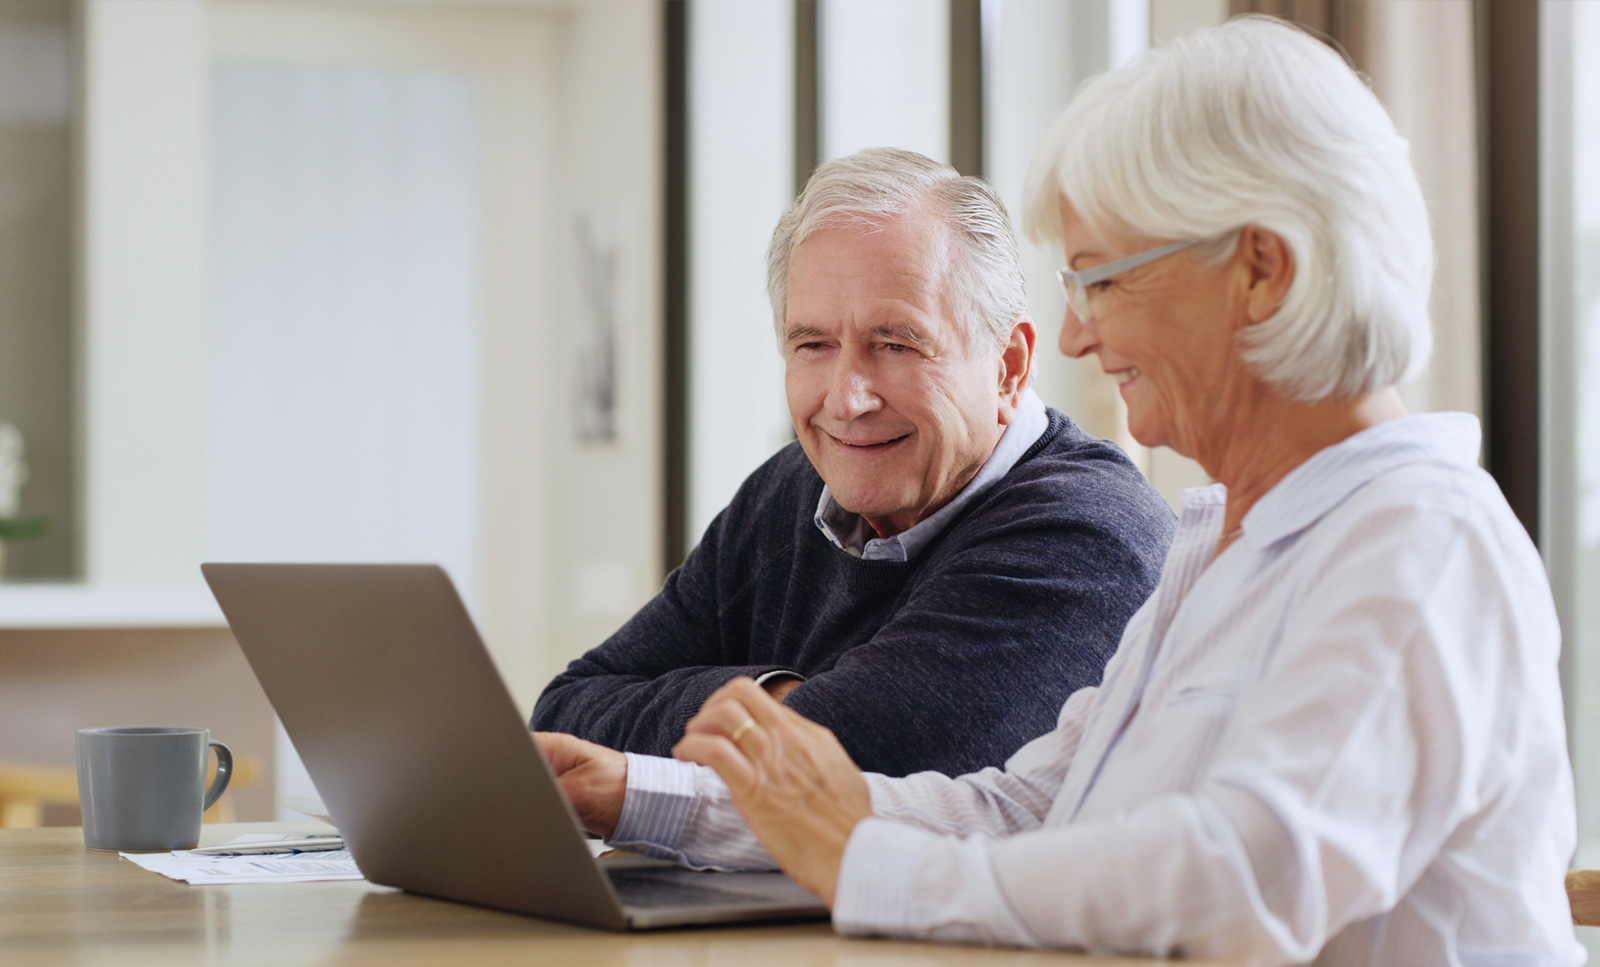
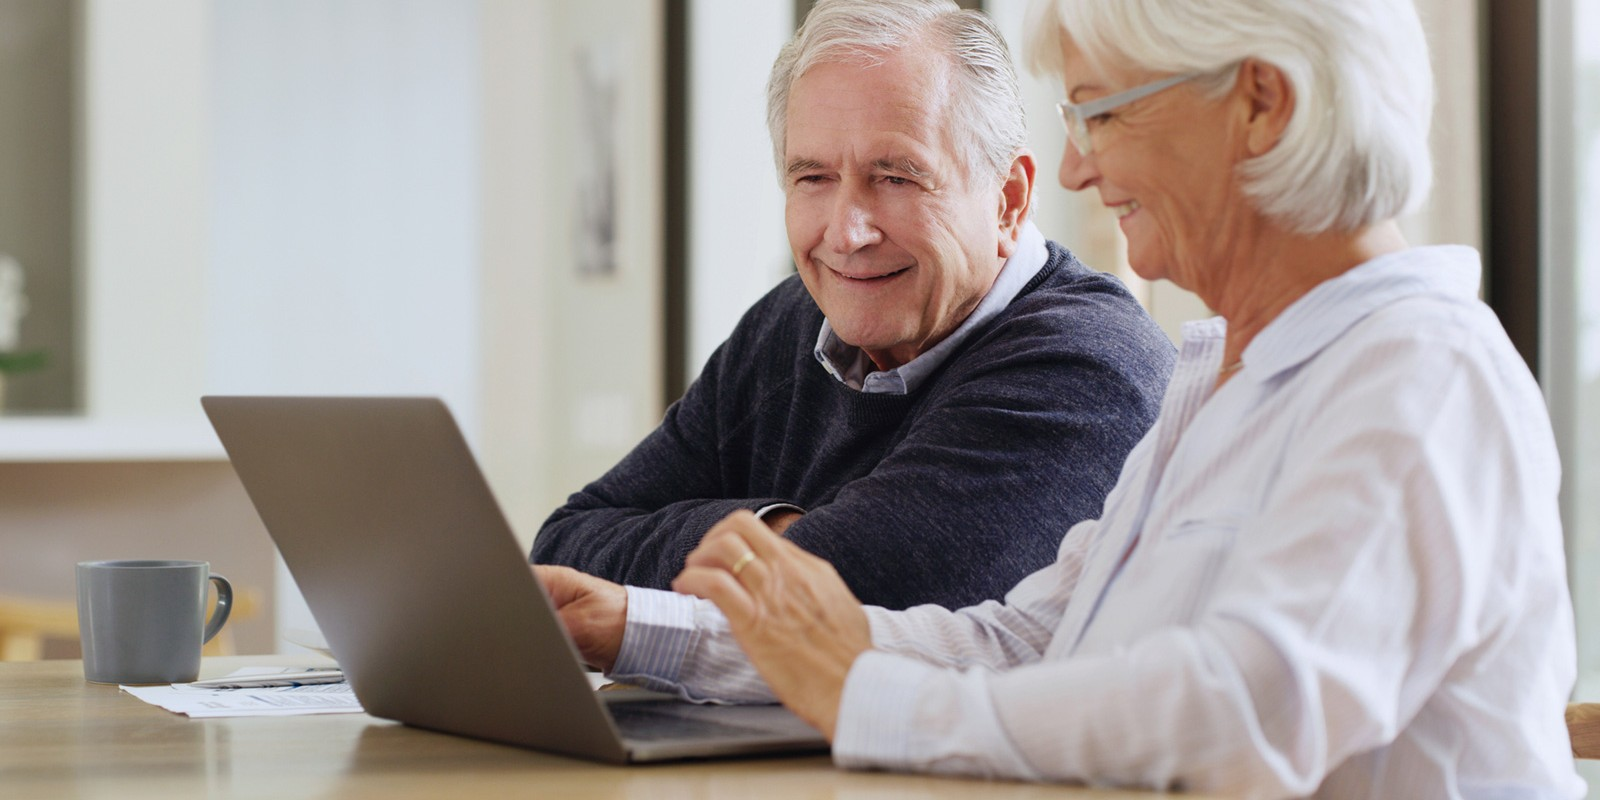
Reduce breadcrumb height

diff --git a/resources/views/frontend/about/hero.blade.php b/resources/views/frontend/about/hero.blade.php
@@ -1,5 +1,5 @@
         <div class="section position-relative bg-attach-fixed overflow-hidden mx-auto rounded-4"
-            style="background-image: url({{ asset('assets/image/about/d579de48accc7476e450319a80c2c66f.jpeg') }}); background-position: center; height: 70vh; max-width: 1770px;">
+            style="background-image: url({{ asset('assets/image/about/d579de48accc7476e450319a80c2c66f.jpeg') }}); background-position: center; height: 50vh; max-width: 1770px;">
             <div class="cta-overlay"></div>
             <div class="r-container h-100 position-relative" style="z-index: 2;">
                 <div class="d-flex flex-column w-100 h-100 justify-content-center mx-auto align-items-center text-white gap-3"

diff --git a/resources/views/frontend/blog/hero.blade.php b/resources/views/frontend/blog/hero.blade.php
@@ -1,5 +1,5 @@
         <div class="section position-relative bg-attach-fixed overflow-hidden mx-auto rounded-4"
-            style="background-image: url(assets/image/breadcrumb/6fb3574bbe1da706bc4bb3395c5fe765.jpg); background-position: top; height: 70vh; max-width: 1770px;">
+            style="background-image: url(assets/image/breadcrumb/6fb3574bbe1da706bc4bb3395c5fe765.jpg); background-position: top; height: 50vh; max-width: 1770px;">
             <div class="cta-overlay"></div>
             <div class="r-container h-100 position-relative" style="z-index: 2;">
                 <div class="d-flex flex-column w-100 h-100 justify-content-center mx-auto align-items-center text-white gap-3"

diff --git a/resources/views/frontend/blogdetails/hero.blade.php b/resources/views/frontend/blogdetails/hero.blade.php
@@ -1,6 +1,6 @@
 
         <div class="section position-relative bg-attach-fixed overflow-hidden mx-auto rounded-4"
-            style="background-image: url(assets/image/breadcrumb/0923T-3728A-1800x1012.webp); background-position: top; height: 70vh; max-width: 1770px;">
+            style="background-image: url(assets/image/breadcrumb/0923T-3728A-1800x1012.webp); background-position: top; height: 50vh; max-width: 1770px;">
             <div class="cta-overlay"></div>
             <div class="r-container h-100 position-relative" style="z-index: 2;">
                 <div class="d-flex flex-column w-100 h-100 justify-content-center mx-auto align-items-center text-white gap-3"

diff --git a/resources/views/frontend/contact/hero.blade.php b/resources/views/frontend/contact/hero.blade.php
@@ -1,5 +1,5 @@
         <div class="section position-relative bg-attach-fixed overflow-hidden mx-auto rounded-4"
-            style="background-image: url(assets/image/breadcrumb/GettyImages-2200416451.jpg); background-position: top; height: 70vh; max-width: 1770px;">
+            style="background-image: url(assets/image/breadcrumb/GettyImages-2200416451.jpg); background-position: top; height: 50vh; max-width: 1770px;">
             <div class="cta-overlay"></div>
             <div class="r-container h-100 position-relative" style="z-index: 2;">
                 <div class="d-flex flex-column w-100 h-100 justify-content-center mx-auto align-items-center text-white gap-3"

diff --git a/resources/views/frontend/faq/hero.blade.php b/resources/views/frontend/faq/hero.blade.php
@@ -1,5 +1,5 @@
         <div class="section position-relative bg-attach-fixed overflow-hidden mx-auto rounded-4"
-            style="background-image: url(assets/image/breadcrumb/elderly-care-options-blog-3.jpg); background-position: top; height: 70vh; max-width: 1770px;">
+            style="background-image: url(assets/image/breadcrumb/5643564.webp); background-position: top; height: 50vh; max-width: 1770px;">
             <div class="cta-overlay"></div>
             <div class="r-container h-100 position-relative" style="z-index: 2;">
                 <div class="d-flex flex-column w-100 h-100 justify-content-center mx-auto align-items-center text-white gap-3"

diff --git a/resources/views/frontend/gallery/hero.blade.php b/resources/views/frontend/gallery/hero.blade.php
@@ -1,5 +1,5 @@
         <div class="section position-relative bg-attach-fixed overflow-hidden mx-auto rounded-4"
-            style="background-image: url(assets/image/breadcrumb/Ahn-Estate-Planning.jpg); background-position: top; height: 70vh; max-width: 1770px;">
+            style="background-image: url(assets/image/breadcrumb/Ahn-Estate-Planning.jpg); background-position: top; height: 50vh; max-width: 1770px;">
             <div class="cta-overlay"></div>
             <div class="r-container h-100 position-relative" style="z-index: 2;">
                 <div class="d-flex flex-column w-100 h-100 justify-content-center mx-auto align-items-center text-white gap-3"

diff --git a/resources/views/frontend/servicedetails/hero.blade.php b/resources/views/frontend/servicedetails/hero.blade.php
@@ -1,6 +1,6 @@
 
         <div class="section position-relative bg-attach-fixed overflow-hidden mx-auto rounded-4"
-            style="background-image: url(assets/image/breadcrumb/56365356.webp); background-position: top; height: 70vh; max-width: 1770px;">
+            style="background-image: url(assets/image/breadcrumb/56365356.webp); background-position: top; height: 50vh; max-width: 1770px;">
             <div class="cta-overlay"></div>
             <div class="r-container h-100 position-relative" style="z-index: 2;">
                 <div class="d-flex flex-column w-100 h-100 justify-content-center mx-auto align-items-center text-white gap-3"

diff --git a/resources/views/frontend/services/hero.blade.php b/resources/views/frontend/services/hero.blade.php
@@ -1,5 +1,5 @@
         <div class="section position-relative bg-attach-fixed overflow-hidden mx-auto rounded-4"
-            style="background-image: url(assets/image/breadcrumb/574674768.webp); background-position: top; height: 70vh; max-width: 1770px;">
+            style="background-image: url(assets/image/breadcrumb/574674768.webp); background-position: top; height: 50vh; max-width: 1770px;">
             <div class="cta-overlay"></div>
             <div class="r-container h-100 position-relative" style="z-index: 2;">
                 <div class="d-flex flex-column w-100 h-100 justify-content-center mx-auto align-items-center text-white gap-3"

diff --git a/resources/views/frontend/testimonials/hero.blade.php b/resources/views/frontend/testimonials/hero.blade.php
@@ -1,6 +1,6 @@
 
         <div class="section position-relative bg-attach-fixed overflow-hidden mx-auto rounded-4"
-            style="background-image: url(assets/image/breadcrumb/walking2.jpg); background-position: top; height: 70vh; max-width: 1770px;">
+            style="background-image: url(assets/image/breadcrumb/walking2.jpg); background-position: top; height: 50vh; max-width: 1770px;">
             <div class="cta-overlay"></div>
             <div class="r-container h-100 position-relative" style="z-index: 2;">
                 <div class="d-flex flex-column w-100 h-100 justify-content-center mx-auto align-items-center text-white gap-3"